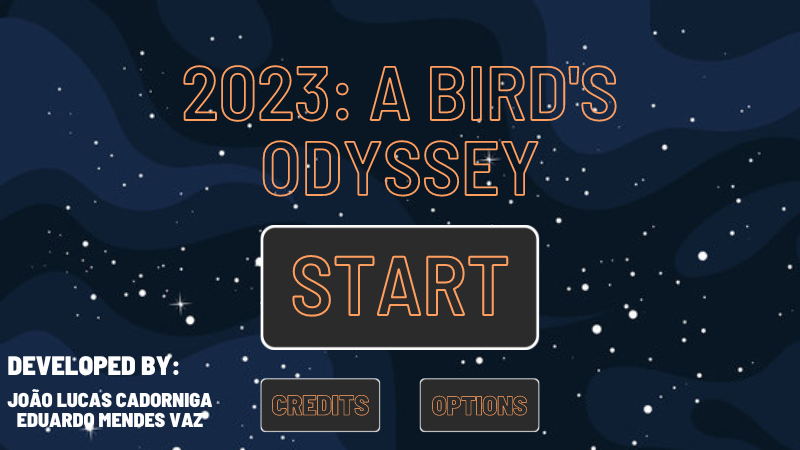
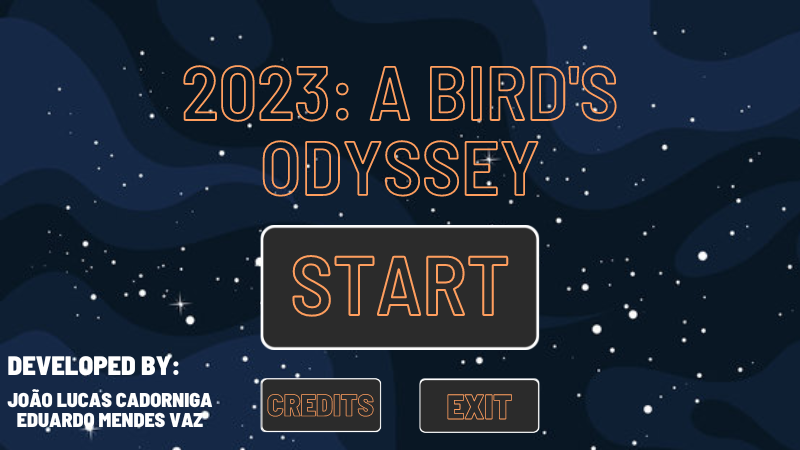
changing image

Changed region(s): [[0.5312, 0.84, 0.6875, 0.9644], [0.3125, 0.84, 0.4688, 0.9333]]

diff --git a/screens/additional/main_menu.py b/screens/additional/main_menu.py
@@ -40,9 +40,9 @@ class MainMenu(AbstractLevel):
     def update_entities(self):
         p = pygame.mouse.get_pos()
         if self.entities["START"].collidepoint(p):
-            return "Level1+"
+            return "Level1"
         elif self.entities["OPTIONS"].collidepoint(p):
-            return "placeholder_options"
+            return "Quit"
         elif self.entities["CREDITS"].collidepoint(p):
             return "Credits"
         return self.name
